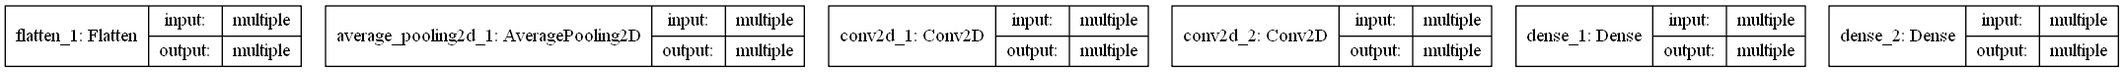
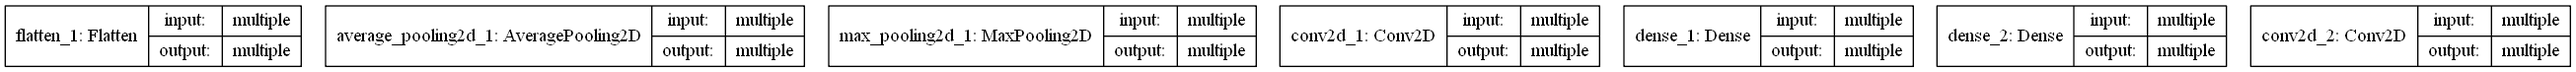
utilisation fichier json comme entree

diff --git a/archi_cnn_invalid.py b/archi_cnn_invalid.py
@@ -4,10 +4,11 @@ from keras.utils import plot_model
 model = keras.models.Sequential([
 	keras.layers.Flatten(),
 	keras.layers.AveragePooling2D(pool_size=2, strides=None, padding='valid'),
-	keras.layers.Conv2D(16, kernel_size=5, strides=1, activation='tanh', padding='valid'),
-	keras.layers.Conv2D(6, kernel_size=5, strides=1,  activation='tanh', input_shape=(28, 28, 1), padding='same'),
+	keras.layers.MaxPooling2D(pool_size=2, strides=None, padding='valid'),
+	keras.layers.Conv2D(6, kernel_size=5, strides=1,  activation='tanh', input_shape=[28, 28, 1], padding='same'),
 	keras.layers.Dense(84, activation='tanh'),
-	keras.layers.Dense(10, activation='softmax')
+	keras.layers.Dense(10, activation='softmax'),
+	keras.layers.Conv2D(16, kernel_size=5, strides=1, activation='tanh', padding='valid'),
 
 ])
 plot_model(model, show_shapes=True, to_file='model_NV.png')

diff --git a/archi_cnn.py b/archi_cnn.py
@@ -2,14 +2,14 @@ import keras
 import numpy as np
 from keras.utils import plot_model
 model = keras.models.Sequential([
-	keras.layers.Conv2D(6, kernel_size=5, strides=1,  activation='tanh', input_shape=(28, 28, 1), padding='same'),
+	keras.layers.Conv2D(6, kernel_size=5, strides=1,  activation='tanh', input_shape=[28, 28, 1], padding='same'),
 	keras.layers.AveragePooling2D(pool_size=2, strides=None, padding='valid'),
 	keras.layers.Conv2D(16, kernel_size=5, strides=1, activation='tanh', padding='valid'),
 	keras.layers.MaxPooling2D(pool_size=2, strides=None, padding='valid'),
 	keras.layers.Flatten(),
 	keras.layers.Dense(120, activation='tanh'),
 	keras.layers.Dense(84, activation='tanh'),
-	keras.layers.Dense(10, activation='softmax')
+	keras.layers.Dense(10, activation='softmax'),
 
 ])
 plot_model(model, show_shapes=True, to_file='model_V.png')
